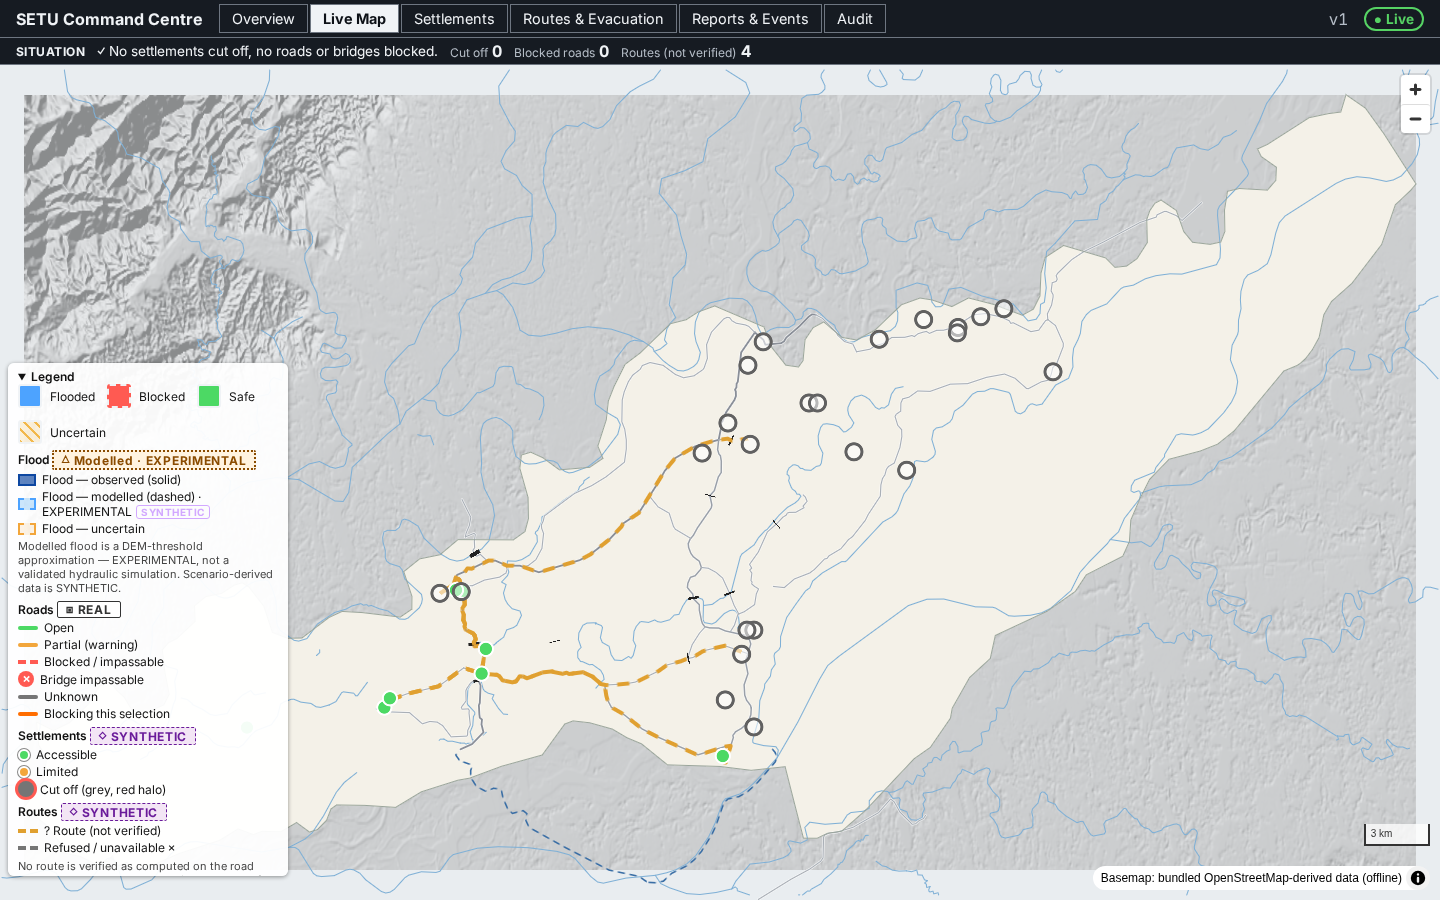
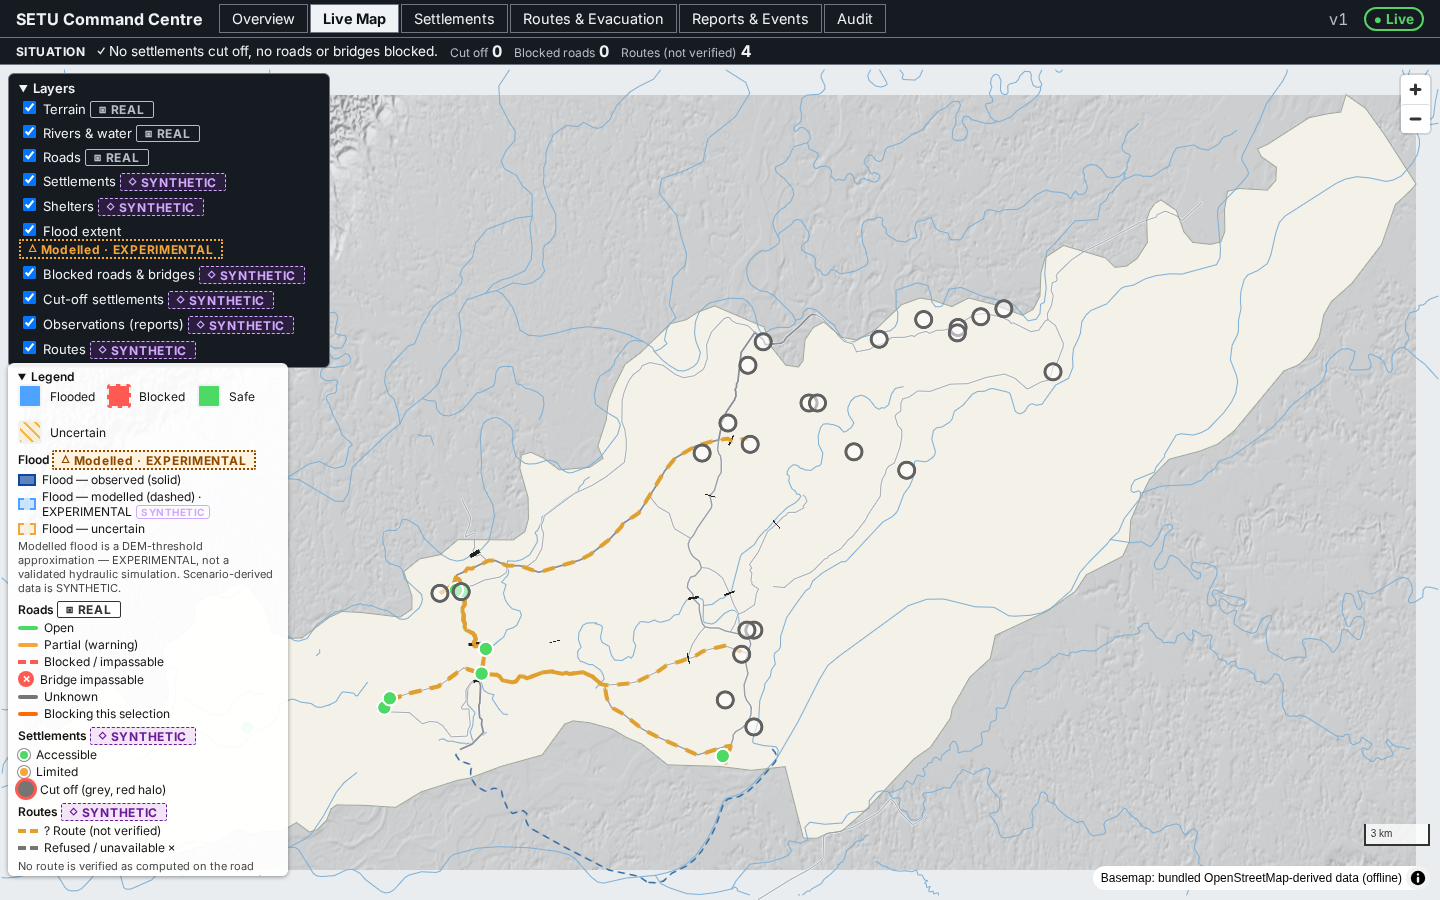
fix(command): render layer toggles in the Live Map with class tags; test all 10

Changed region(s): [[0.0, 0.0622, 0.25, 0.4044]]

diff --git a/frontend/apps/command/src/app/App.test.tsx b/frontend/apps/command/src/app/App.test.tsx
@@ -5,9 +5,13 @@ import { stubApi } from '../testing/stubApi';
 import type { ApiClient } from '@setu/contract';
 
 // MapLibre needs WebGL; the dashboard wiring is what is under test here.
-vi.mock('../map', () => ({ MapView: () => <div data-testid="map" /> }));
+vi.mock('../map', async () => {
+  const t = await import('../map/toggles');
+  return { MapLayersProvider: t.MapLayersProvider, MapView: () => <div data-testid="map"><t.MapLayerControls /></div> };
+});
 
 import { App } from './App';
+import { TOGGLE_IDS } from '../map/layers';
 
 afterEach(() => {
   cleanup();
@@ -32,6 +36,16 @@ describe('<App/> dashboard', () => {
     expect(await screen.findByTestId('overview')).toBeTruthy();
     expect(screen.getByTestId('overview-simtime').textContent).toBe('Not provided by backend');
     for (const id of ['affected', 'disconnected', 'impassable', 'pending', 'evac']) expect(screen.getByTestId(`overview-count-${id}`)).toBeTruthy();
+  });
+
+  it('renders all 10 layer toggles on the map and they toggle', () => {
+    render(<App client={seeded()} />);
+    fireEvent.click(screen.getByTestId('nav-map'));
+    expect(TOGGLE_IDS).toHaveLength(10);
+    for (const id of TOGGLE_IDS) expect(screen.getByTestId(`layer-toggle-${id}`)).toBeTruthy();
+    const flood = screen.getByTestId('layer-toggle-flood') as HTMLInputElement;
+    fireEvent.click(flood);
+    expect(flood.checked).toBe(false);
   });
 
   it('switches sections and keeps the map mounted', async () => {

diff --git a/frontend/apps/command/src/map/MapView.tsx b/frontend/apps/command/src/map/MapView.tsx
@@ -11,7 +11,7 @@ import { BASE_BOUNDS, baseLayerIds, loadBasemap, offlineStyle } from './basemap'
 import { selectionBounds } from './bounds';
 import { blockingByGroup, blockingIds, buildMarkers, type MarkerSpec } from './markers';
 import { observationsToGeoJSON, registerObservationIcons } from './observations';
-import { useMapLayers } from './toggles';
+import { MapLayerControls, useMapLayers } from './toggles';
 import { Legend } from './Legend';
 
 const CLICK_TOLERANCE_PX = 6;
@@ -258,6 +258,13 @@ export function MapView() {
         aria-label="Situation map"
         style={{ position: 'absolute', inset: 0 }}
       />
+      <details
+        open
+        style={{ position: 'absolute', top: 8, left: 8, zIndex: 2, maxWidth: 300, padding: '6px 10px', background: 'var(--setu-surface, #fff)', color: 'var(--setu-text, #111)', border: '1px solid var(--setu-border, #888)', borderRadius: 6, fontSize: 13 }}
+      >
+        <summary style={{ cursor: 'pointer', fontWeight: 600 }}>Layers</summary>
+        <MapLayerControls />
+      </details>
       <Legend />
     </div>
   );

diff --git a/frontend/apps/command/src/app/slots.tsx b/frontend/apps/command/src/app/slots.tsx
@@ -1,4 +1,4 @@
-import { MapView } from '../map';
+import { MapLayersProvider, MapView } from '../map';
 import { FeaturePanel } from '../panels';
 import { AuditView } from '../audit';
 import { SettlementsSection } from '../sections/settlements';
@@ -23,6 +23,7 @@ export function Workspace() {
   const showMap = view === 'map' || split;
   const showAside = !!selected && view !== 'overview' && view !== 'audit';
   return (
+    <MapLayersProvider>
     <div className="cmd-workspace" data-view={view}>
       {split && (
         <section className="cmd-section cmd-section--split" aria-label={view} data-testid={`section-${view}`}>
@@ -56,5 +57,6 @@ export function Workspace() {
         </aside>
       )}
     </div>
+    </MapLayersProvider>
   );
 }
